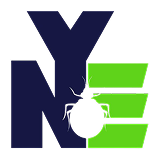
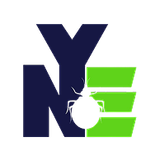
Jorge's portrait carries the Nye mark in its corner, on white
Owner, 20 Sep 2026: "Put jeorge logo on white background and maybe overlay it
on bottom right corner of his profile image." The artwork is navy and green on
transparency, so on the dark page it was sitting in a dark square below the
portrait and half disappearing into it. It is flattened onto white in the file
as well as backed in CSS — either one alone leaves a case where it vanishes —
and it now sits in the bottom corner of the frame the way a badge sits on a
crew photograph.

It is still the link to nyepestcontrol.com, so the target is 4rem rather than
the size the mark wants to be: the tap-target gate puts the floor at 44px and
that check still passes at 390px.

Changed region(s): [[0.0625, 0.0503, 0.9375, 0.9308]]

diff --git a/src/styles/global.css b/src/styles/global.css
@@ -1997,15 +1997,40 @@ footer.site .colophon {
   align-items: flex-start;
   gap: var(--space-2);
 }
-.franchise.portrait > img {
-  max-width: 14rem;
-}
-.franchise.portrait a {
-  display: block;
-  width: 5rem;
-}
 .franchise.portrait figcaption {
   margin-top: 0;
+}
+/* The company mark sits in the bottom corner of the face, the way a crew
+   photograph carries a badge. It is a link, so it needs a target big enough
+   to hit on a phone — §24 sets the floor at 44px and 4rem clears it. */
+.portrait-frame {
+  position: relative;
+  display: inline-block;
+  max-width: 14rem;
+}
+.portrait-frame > img {
+  display: block;
+  width: 100%;
+  height: auto;
+  border-radius: var(--radius-sm);
+}
+.portrait-frame > a {
+  position: absolute;
+  right: var(--space-2);
+  bottom: var(--space-2);
+  display: block;
+  width: 4rem;
+  padding: 0.35rem;
+  background: #fff;
+  border-radius: var(--radius-sm);
+  box-shadow: 0 1px 4px rgb(0 0 0 / 35%);
+}
+.portrait-frame > a img {
+  display: block;
+  width: 100%;
+  height: auto;
+  border-radius: 0;
+  background: none;
 }
 
 /* ---------------------------------------------------- §21  awards & press */
